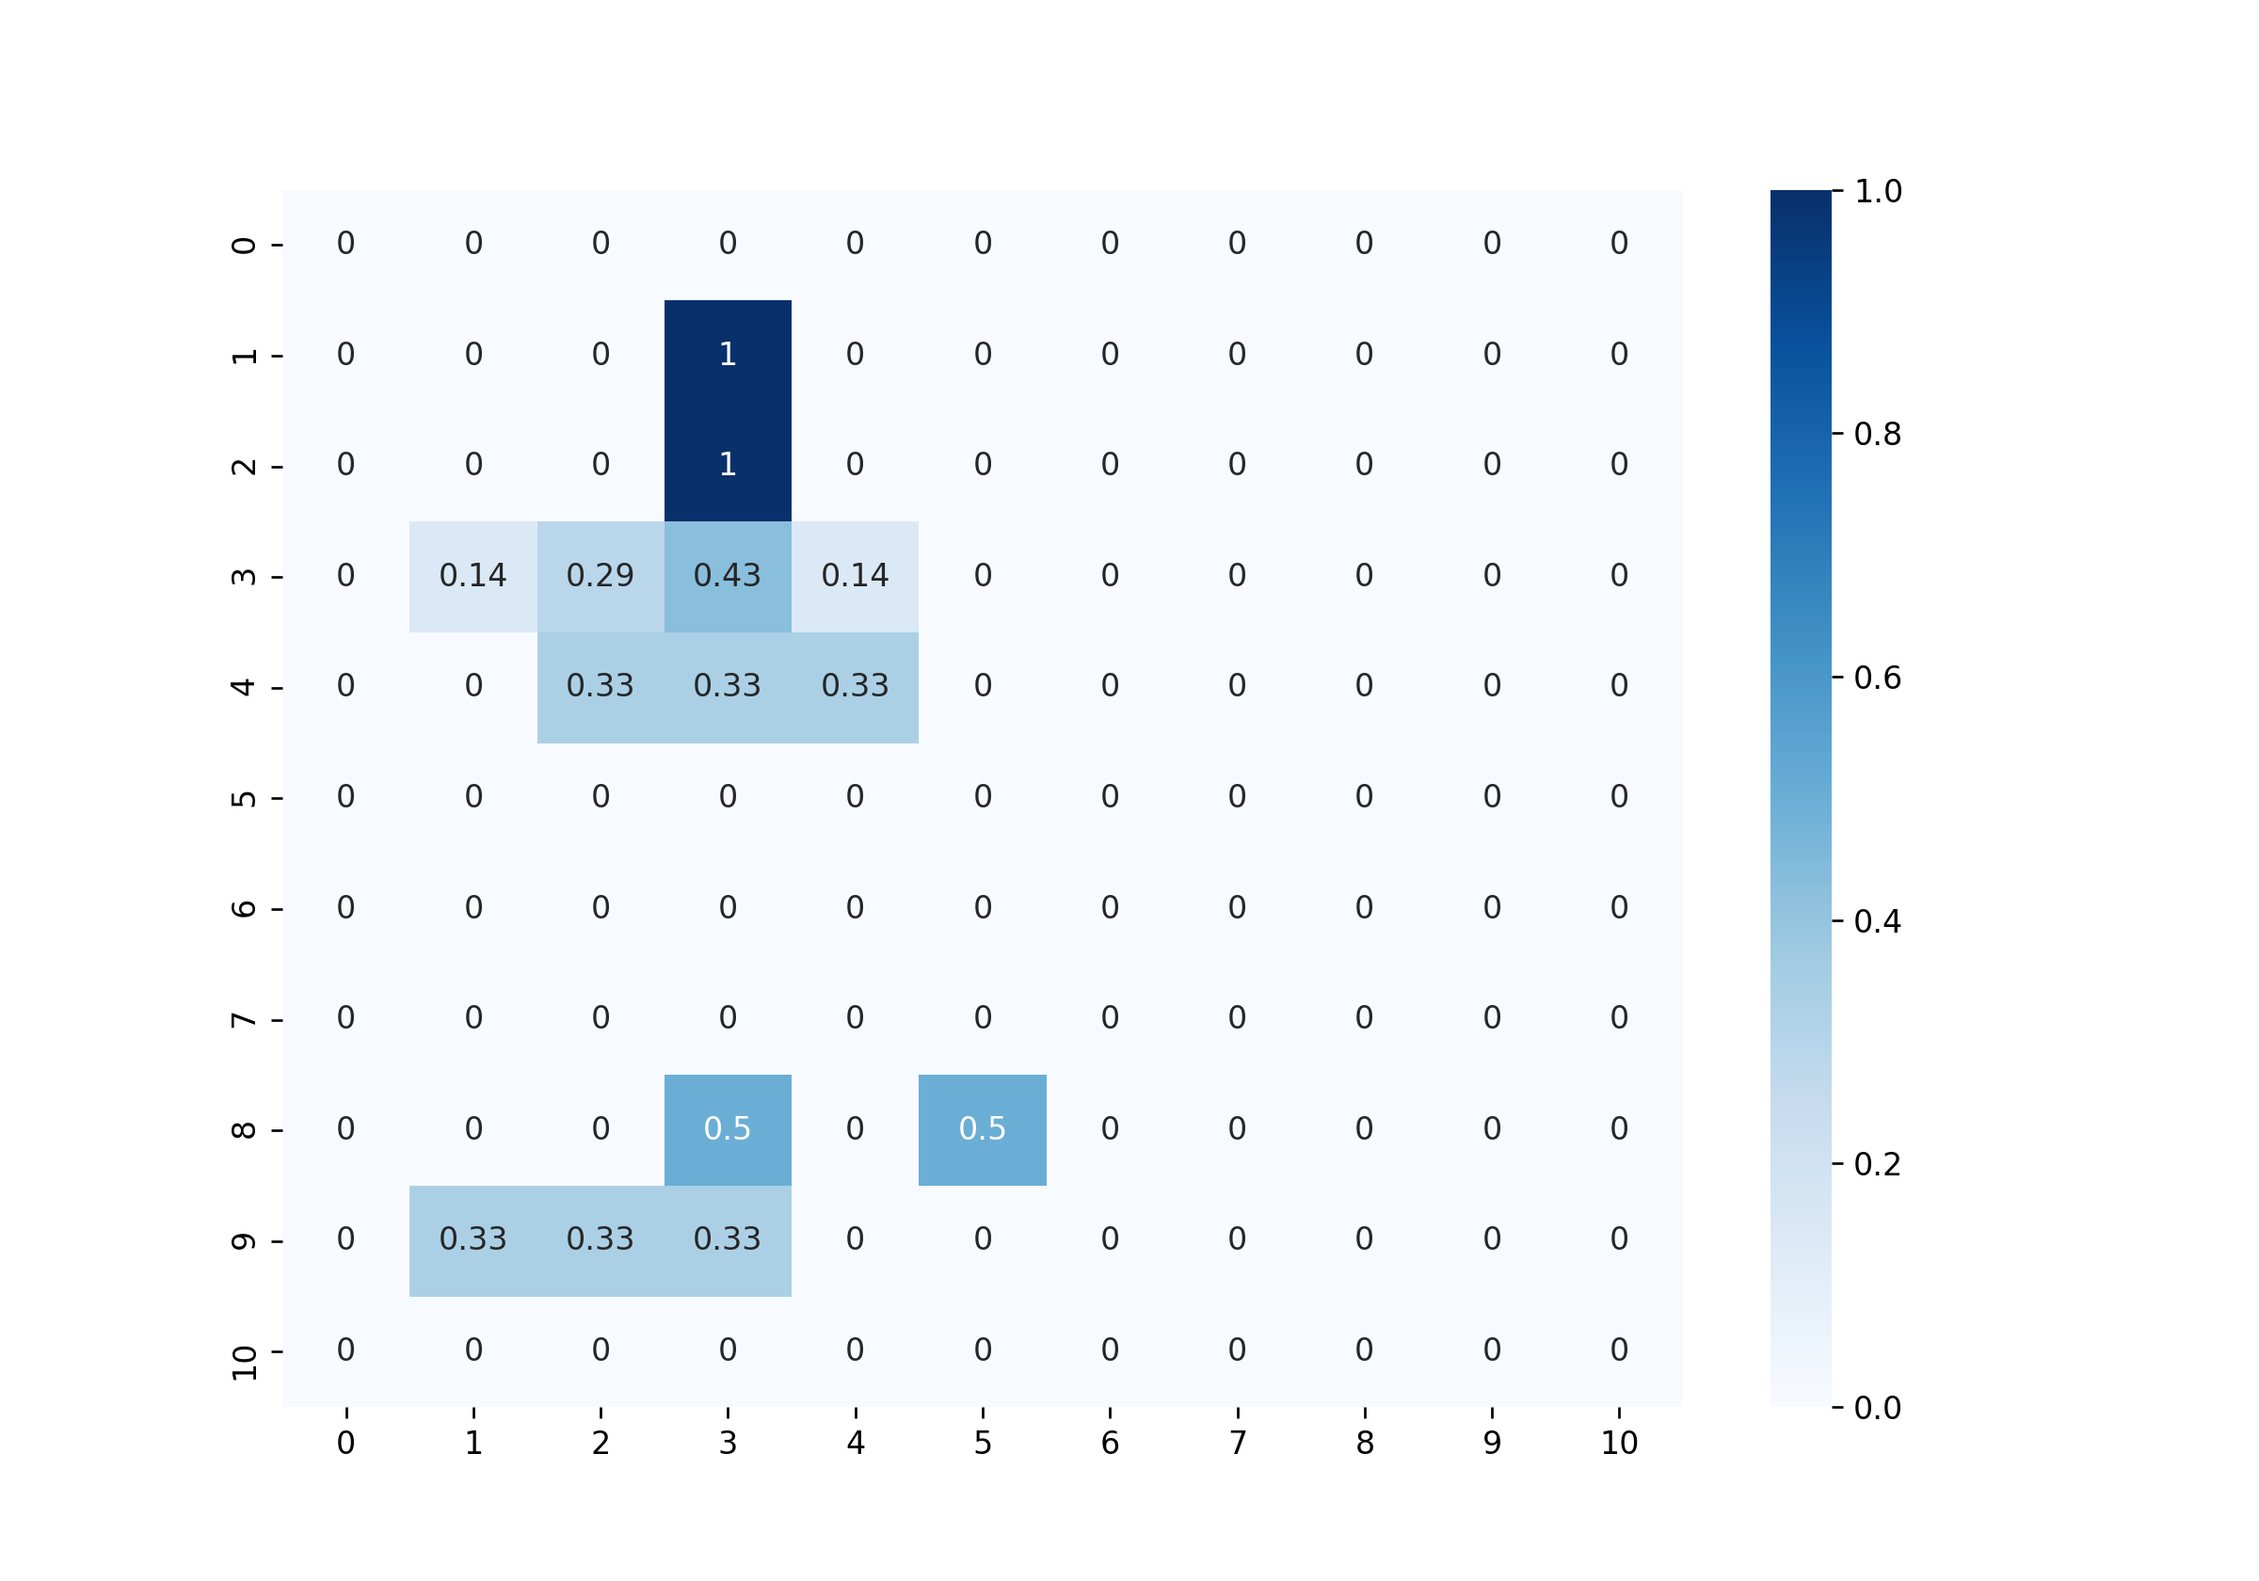
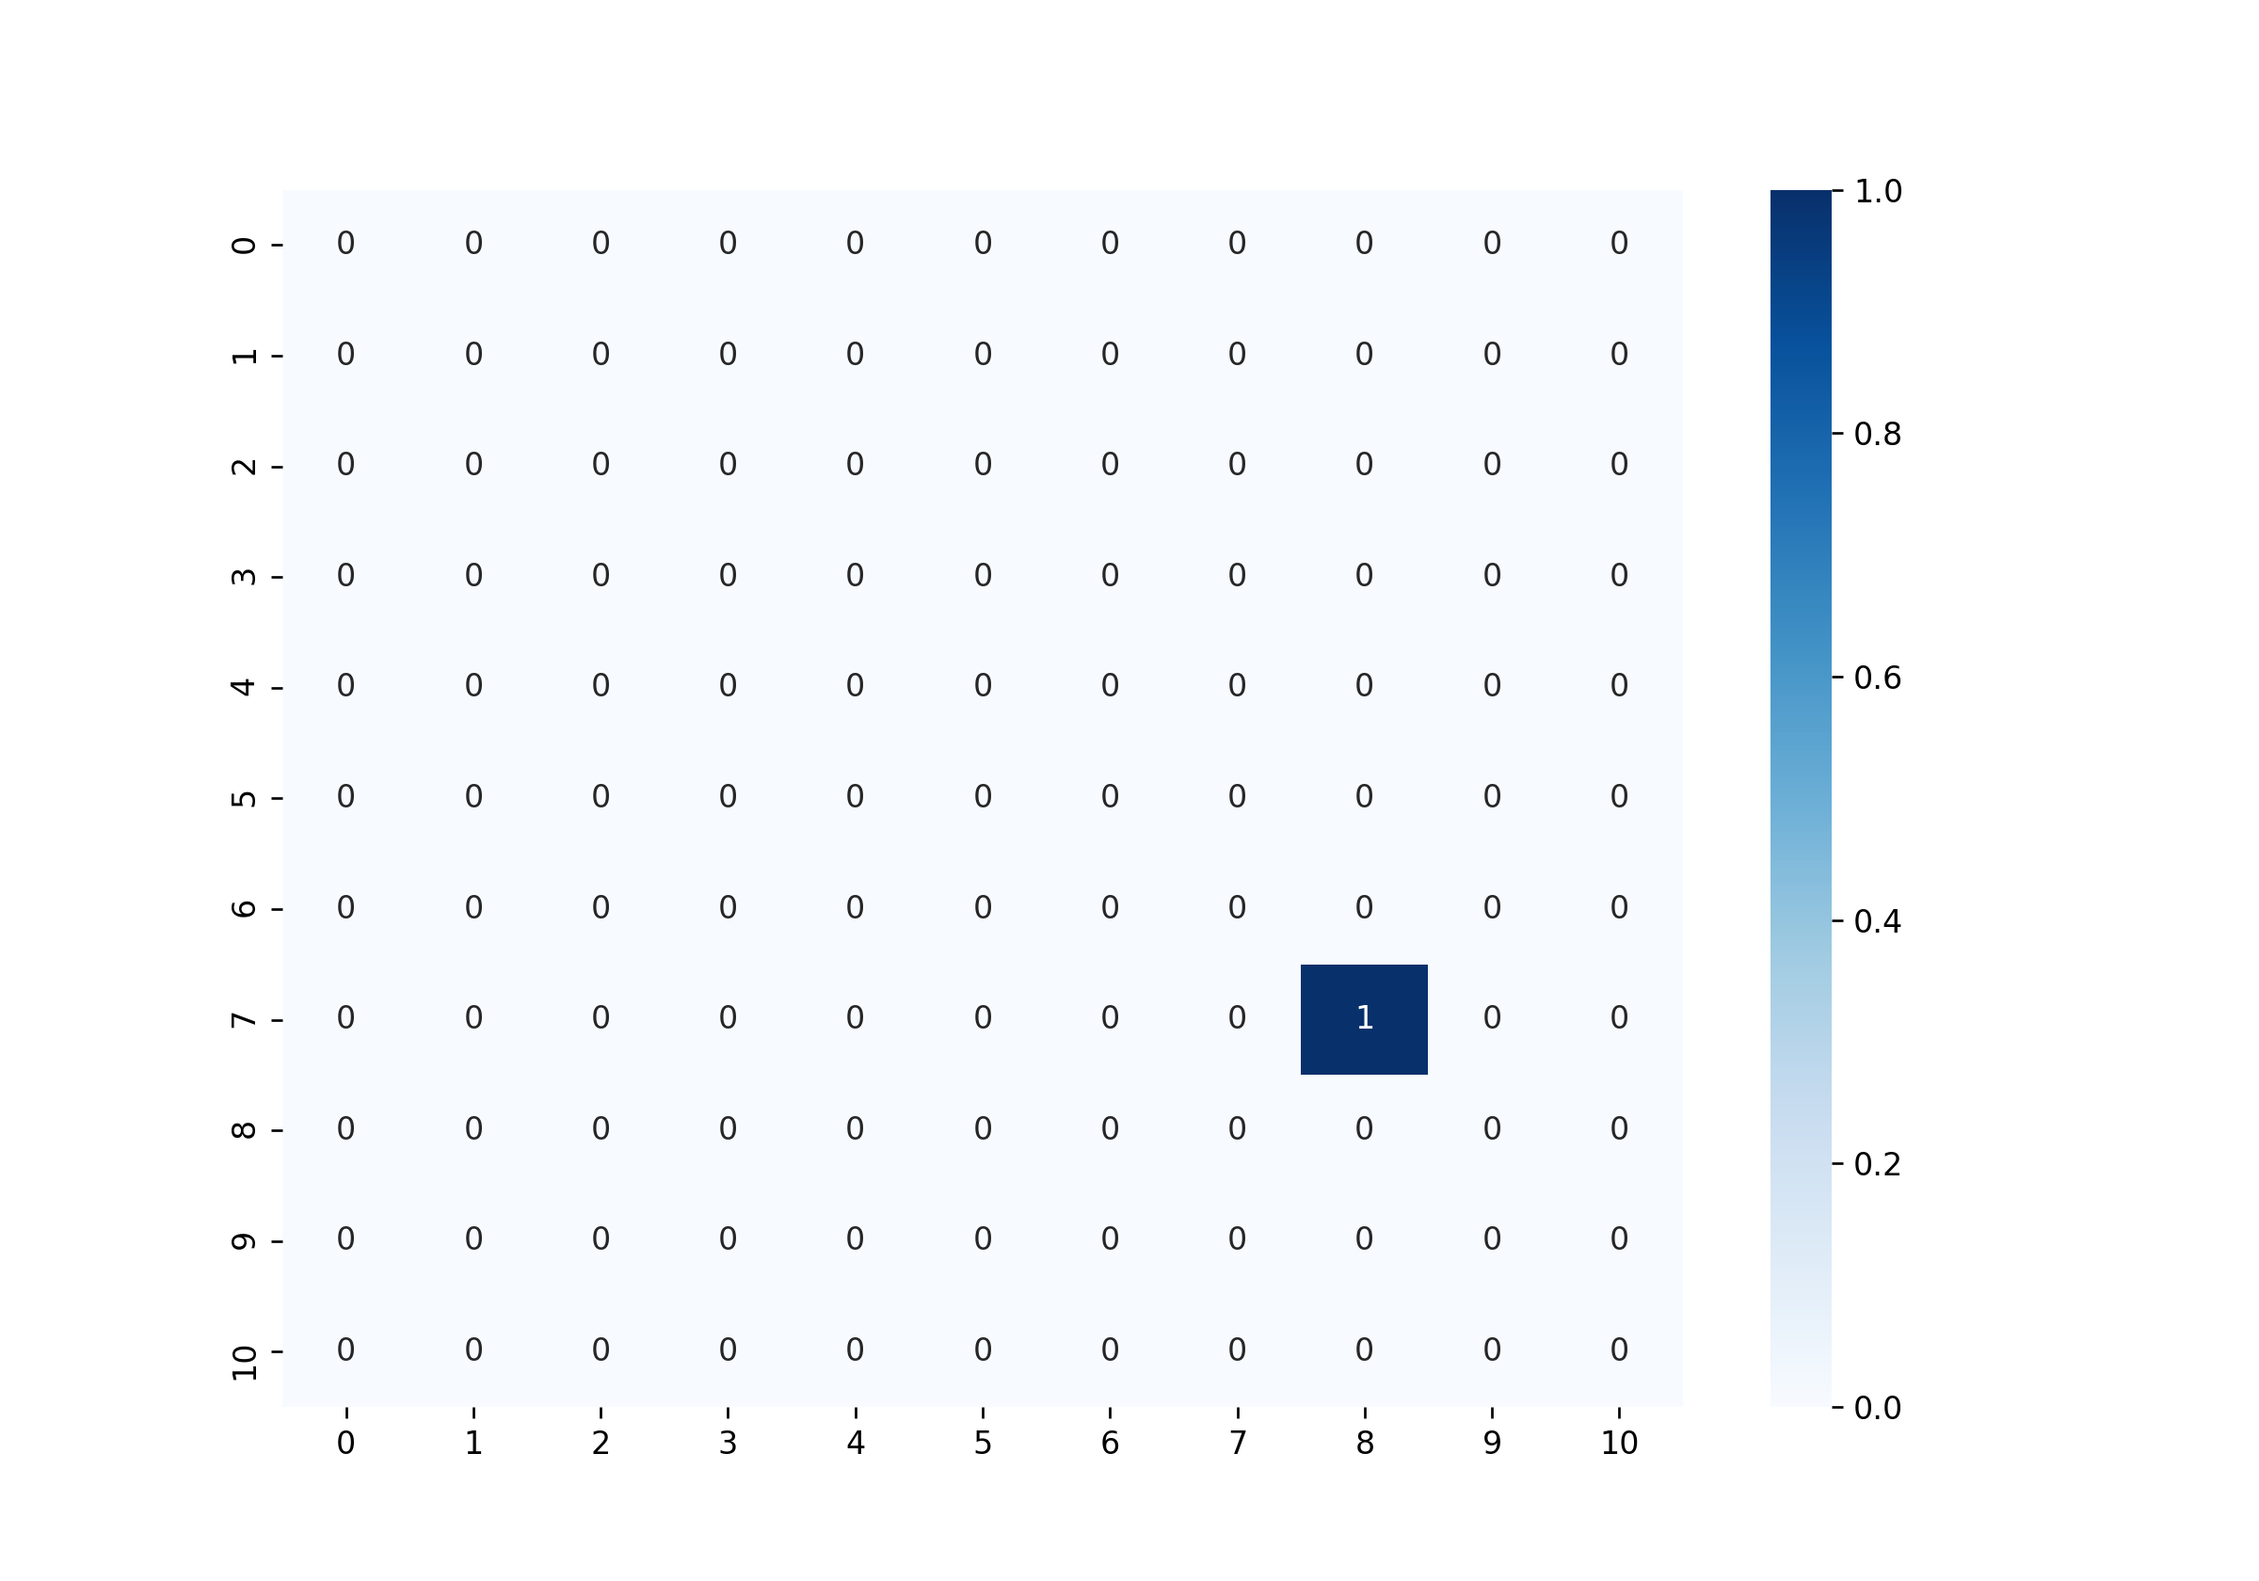
Aggiunta soglia VAS nel clustering

diff --git a/generate_model_predictor.py b/generate_model_predictor.py
@@ -20,10 +20,7 @@ num_lndks = 66
 weighted_samples = config.weighted_samples
 # Features info
 selected_lndks_idx = config.selected_lndks_idx
-seq_df = pd.read_csv(seq_df_path)
-seq_df = seq_df.query('VAS>=' + str(config.threshold_VAS))
-index = seq_df.index.tolist()
-num_videos = len(index)
+num_videos = 200
 cross_val_protocol = config.cross_val_protocol
 train_video_idx, test_video_idx = get_training_and_test_idx(num_videos, cross_val_protocol, seq_df_path)
 # Preliminary clustering info and paths
@@ -31,7 +28,8 @@ n_kernels_GMM = config.n_kernels_GMM
 threshold_neutral = config.threshold_neutral
 if fit_by_bic:
     assert isinstance(n_kernels_GMM, list) and isinstance(threshold_neutral, list) and min(n_kernels_GMM) > 0 \
-           and min(threshold_neutral) > 0 and max(threshold_neutral) < 1 and len(n_kernels_GMM) == len(threshold_neutral)
+           and min(threshold_neutral) > 0 and max(threshold_neutral) < 1 and len(n_kernels_GMM) == len(
+        threshold_neutral)
     sub_directory = "fit_by_bic"
 else:
     assert isinstance(n_kernels_GMM, int) and isinstance(threshold_neutral, float) and n_kernels_GMM > 0 and \
@@ -56,17 +54,21 @@ if __name__ == '__main__':
         dir_paths.append(path_histo_figures)
     file_paths = [coord_df_path, seq_df_path]
     check_existing_paths(dir_paths=dir_paths, file_paths=file_paths)
-    out_df_scores = pd.DataFrame(columns=['#round', '#clusters', 'threshold', '#relevant_clusters', 'Mean Absolute Error'])
+    out_df_scores = pd.DataFrame(
+        columns=['#round', '#clusters', 'threshold', '#relevant_clusters', 'Mean Absolute Error'])
     n_test = len(train_video_idx)
     errors = []
     confusion_matrix = np.zeros(shape=(11, 11))
     confusion_matrix_pain_levels = np.zeros(shape=(3, 3))
     if fit_by_bic:
-        print("Generate and test models with fitting GMM by BIC using "+str(n_kernels_GMM)+" kernels, "+covariance_type+" covariance and "+cross_val_protocol )
+        print("Generate and test models with fitting GMM by BIC using " + str(
+            n_kernels_GMM) + " kernels, " + covariance_type + " covariance and " + cross_val_protocol)
     else:
-        print("Generate and test models with "+str(n_kernels_GMM)+" kernels GMM, "+covariance_type+" covariance, threshold = "+str(threshold_neutral)+ " and using "+cross_val_protocol )
+        print("Generate and test models with " + str(
+            n_kernels_GMM) + " kernels GMM, " + covariance_type + " covariance, threshold = " + str(
+            threshold_neutral) + " and using " + cross_val_protocol)
     for test_idx in np.arange(0, n_test):
-        print("- Round "+str(test_idx+1)+"/"+str(n_test)+" -")
+        print("- Round " + str(test_idx + 1) + "/" + str(n_test) + " -")
         test_videos = test_video_idx[test_idx]
         train_videos = train_video_idx[test_idx]
         path_histo_current = None
@@ -83,17 +85,19 @@ if __name__ == '__main__':
                                                        threshold_neutral=threshold_neutral,
                                                        fit_by_bic=fit_by_bic)
         if save_histo_figures == True:
-            path_histo_current = path_histo_figures + "test_"+str(test_idx)+"_"
+            path_histo_current = path_histo_figures + "test_" + str(test_idx) + "_"
         preliminary_clustering.execute_preliminary_clustering(histo_figures_path=path_histo_current)
         n_kernels_current_GMM = preliminary_clustering.n_kernels
         threshold_current_clustering = preliminary_clustering.threshold_neutral
         num_relevant_config = len(preliminary_clustering.index_relevant_configurations)
         if num_relevant_config == 0:
-            print("-- No relevant configurations were found using "+str(n_kernels_current_GMM)+" kernels and "+str(threshold_current_clustering)+" for the threshold of neutral configurations "
-                  "(try to lower the threshold by analyzing the histograms produced by clustering in the test module )--")
+            print(
+                "-- No relevant configurations were found using " + str(n_kernels_current_GMM) + " kernels and " + str(
+                    threshold_current_clustering) + " for the threshold of neutral configurations "
+                                                    "(try to lower the threshold by analyzing the histograms produced by clustering in the test module )--")
             current_error = current_accuracy = "None"
         else:
-            print("-- Preliminary clustering ended: "+str(num_relevant_config)+" relevant clusters founded --")
+            print("-- Preliminary clustering ended: " + str(num_relevant_config) + " relevant clusters founded --")
             model_svr = ModelSVR(seq_df_path=seq_df_path,
                                  train_video_idx=train_videos,
                                  test_video_idx=test_videos,
@@ -102,21 +106,24 @@ if __name__ == '__main__':
             print("-- Train and save SVR model... --")
             model_svr.train_SVR(train_by_max_score=True, n_jobs=n_jobs)
             print("-- Calculate scores for trained SVR... --")
-            current_test_path_error = path_errors+"errors_test_"+str(test_idx)+".csv"
+            current_test_path_error = path_errors + "errors_test_" + str(test_idx) + ".csv"
             current_path_cm = path_confusion_matrices + "conf_matrix_test_" + str(test_idx) + ".png"
-            current_error, current_confusion_matrix = model_svr.evaluate_performance(path_scores_parameters=current_test_path_error,
-                                                                                     path_scores_cm=current_path_cm)
+            current_error, current_confusion_matrix = model_svr.evaluate_performance(
+                path_scores_parameters=current_test_path_error,
+                path_scores_cm=current_path_cm)
             current_cm_pain_level = model_svr.evaluate_performance_on_scaled_pain()
             errors.append(current_error)
-            print("-- Mean Absolute Error: " + str(current_error)+" --")
+            print("-- Mean Absolute Error: " + str(current_error) + " --")
             confusion_matrix += current_confusion_matrix
             confusion_matrix_pain_levels += current_cm_pain_level
 
-        out_df_scores = save_data_on_csv([test_idx+1, n_kernels_current_GMM, threshold_current_clustering, num_relevant_config, current_error],
-                                    out_df_scores, path_results_csv)
+        out_df_scores = save_data_on_csv(
+            [test_idx + 1, n_kernels_current_GMM, threshold_current_clustering, num_relevant_config, current_error],
+            out_df_scores, path_results_csv)
         current_path_gmm_means_csv = path_gmm_means + "gmm_means_test_" + str(test_idx) + ".csv"
         current_path_clusters_png = path_gmm_means + "gmm_clusters_test_" + str(test_idx) + ".png"
-        save_GMM_mean_info(preliminary_clustering.gmm.means, selected_lndks_idx, current_path_gmm_means_csv, current_path_clusters_png)
+        save_GMM_mean_info(preliminary_clustering.gmm.means, selected_lndks_idx, current_path_gmm_means_csv,
+                           current_path_clusters_png)
 
     mean_error = sum(errors) / n_test
     mean_error = round(mean_error, 3)
@@ -125,21 +132,21 @@ if __name__ == '__main__':
     path_errors = path_results + "graphics_errors.png"
     path_conf_matrix = path_results + "confusion_matrix.png"
     path_conf_matrix_pain_levels = path_results + "confusion_matrix_pain_levels.png"
-    print("Mean absolute errors detected at each round saved in a csv file on path '" + path_results_csv+"'")
-    print("Confusion matrices detected at each round saved in png files on path '" + path_confusion_matrices+"'")
+    print("Mean absolute errors detected at each round saved in a csv file on path '" + path_results_csv + "'")
+    print("Confusion matrices detected at each round saved in png files on path '" + path_confusion_matrices + "'")
 
     plot_matrix(cm=confusion_matrix, labels=np.arange(0, 11), normalize=True, fname=path_conf_matrix)
-    print("Overall confusion matrix saved in png files on path '" + path_conf_matrix+"'")
+    print("Overall confusion matrix saved in png files on path '" + path_conf_matrix + "'")
     labels_cm = ["no pain", "weak pain", "severe pain"]
     plot_matrix(cm=confusion_matrix_pain_levels, labels=labels_cm, normalize=True, fname=path_conf_matrix_pain_levels)
     print("Overall confusion matrix on pain level saved in png files on path '" + path_conf_matrix_pain_levels + "'")
 
-    plt.bar(np.arange(1, n_test+1), errors, color="blue")
-    plt.axhline(y=mean_error, xmin=0, xmax=n_test+1, color="red", label='Mean Absolute Error: '+str(mean_error))
+    plt.bar(np.arange(1, n_test + 1), errors, color="blue")
+    plt.axhline(y=mean_error, xmin=0, xmax=n_test + 1, color="red", label='Mean Absolute Error: ' + str(mean_error))
     plt.ylabel("Average of the Mean Absolute Error")
     plt.xlabel("Num round")
     plt.title("Mean Absolute Errors")
     plt.legend()
     plt.savefig(path_errors)
     plt.close()
-    print("Histogram of the mean absolute error detected saved in a png file on path '" + path_results+"'")
+    print("Histogram of the mean absolute error detected saved in a png file on path '" + path_results + "'")

diff --git a/PreliminaryClustering.py b/PreliminaryClustering.py
@@ -6,7 +6,6 @@ from sklearn.preprocessing import RobustScaler
 import matplotlib.pyplot as plt
 import matplotlib
 
-import configuration.config
 
 matplotlib.use('Agg')
 
@@ -32,17 +31,6 @@ class PreliminaryClustering:
         self.index_relevant_configurations = None  # indexes of the clusters to considered as relevant
         self.index_neutral_configurations = None  # indexes of the clusters to considered as neutral (not to use for VAS classification)
 
-    def __get_dataset(self, coord_df, seq_df):
-        """
-        Return DataFrames of dataset with only element with VAS >= of threshold_VAS
-        """
-        if self.verbose:
-            print("---- Get data only with VAS >= " + str(configuration.config.threshold_VAS) + " ----")
-        seq_df = seq_df.query('VAS>=' + str(configuration.config.threshold_VAS))
-        index = seq_df.index.tolist()
-        coord_df = coord_df[coord_df['0'].isin(index)]
-        return coord_df, seq_df
-
     def __get_velocities_frames(self):
         """
         Extract velocities of landmarks video sequences in dataset.
@@ -53,10 +41,8 @@ class PreliminaryClustering:
             print("---- Calculating velocities of the frames in dataset... ----")
         coord_df = pd.read_csv(self.coord_df_path)
         seq_df = pd.read_csv(self.seq_df_path)
-        coord_df, seq_df = self.__get_dataset(coord_df, seq_df)
         velocities = []
-        seq_idx = seq_df.index.tolist()
-        for seq_num in seq_idx:
+        for seq_num in np.arange(seq_df.shape[0]):
             lndks = coord_df.loc[coord_df['0'] == seq_num].values
             lndks = lndks[:, 2:]
             nose_tip_x = lndks[:, 30]

diff --git a/utils.py b/utils.py
@@ -8,7 +8,6 @@ from sklearn import manifold
 from configuration import config
 
 
-
 def check_existing_paths(dir_paths=[], file_paths=[]):
     project_path = os.getcwd() + "/"
     for dir_path in dir_paths:
@@ -22,7 +21,6 @@ def check_existing_paths(dir_paths=[], file_paths=[]):
 
 def get_subjects_seq_idx(seq_df_path):
     seq_df = pd.read_csv(seq_df_path)
-    seq_df = seq_df.query('VAS>=' + str(config.threshold_VAS))
     subjects_idxs = {}
     subject_count = 0
     seq_name = ""
@@ -62,6 +60,23 @@ def get_training_and_test_idx(num_videos, cross_val_protocol, seq_df_path):
             all_test_idx.append(np.asarray([video_idx]))
             all_training_idx.append(np.delete(np.arange(0, num_videos), video_idx))
 
+    index = pd.read_csv(seq_df_path).query('VAS>=' + str(config.threshold_VAS)).index.tolist()
+    idxs = []
+    for idx in all_training_idx:
+        video_idx = []
+        for i in idx:
+            if i in index:
+                video_idx.append(i)
+        idxs.append(video_idx)
+    all_training_idx = idxs
+    idxs = []
+    for idx in all_test_idx:
+        video_idx = []
+        for i in idx:
+            if i in index:
+                video_idx.append(i)
+        idxs.append(video_idx)
+    all_test_idx = idxs
     return all_training_idx, all_test_idx
 
 

diff --git a/configuration/config.py b/configuration/config.py
@@ -36,7 +36,7 @@ threshold_neutral = 0.3
  with a frequency greater than 0.3 will be considered neutral. """
 
 # Threshold of VAS for data in dataset
-threshold_VAS = 6
+threshold_VAS = 7
 """ For example if the threshold is 8: the preliminary clustering use only the data with VAS >= 8 """
 
 # Defines if the histograms of the dataset sequences must be saved in their respective files
